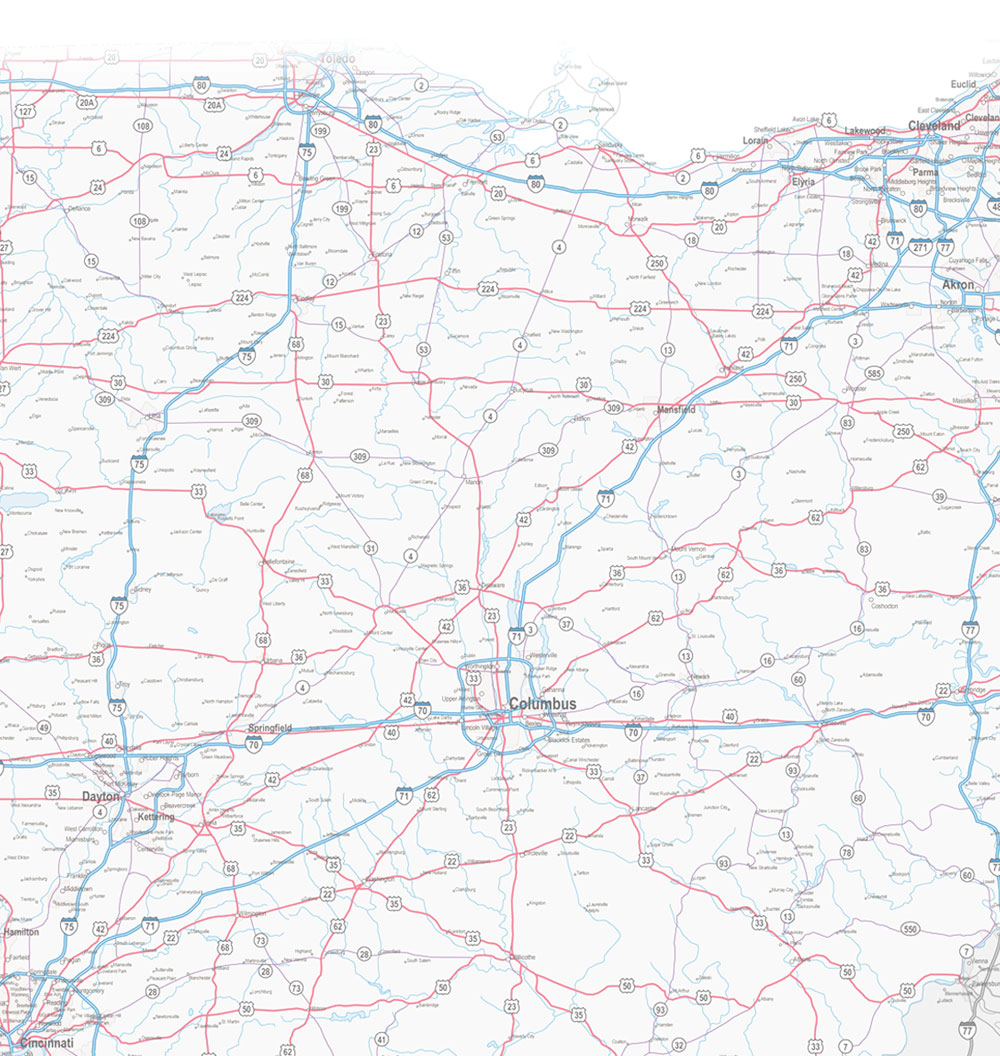
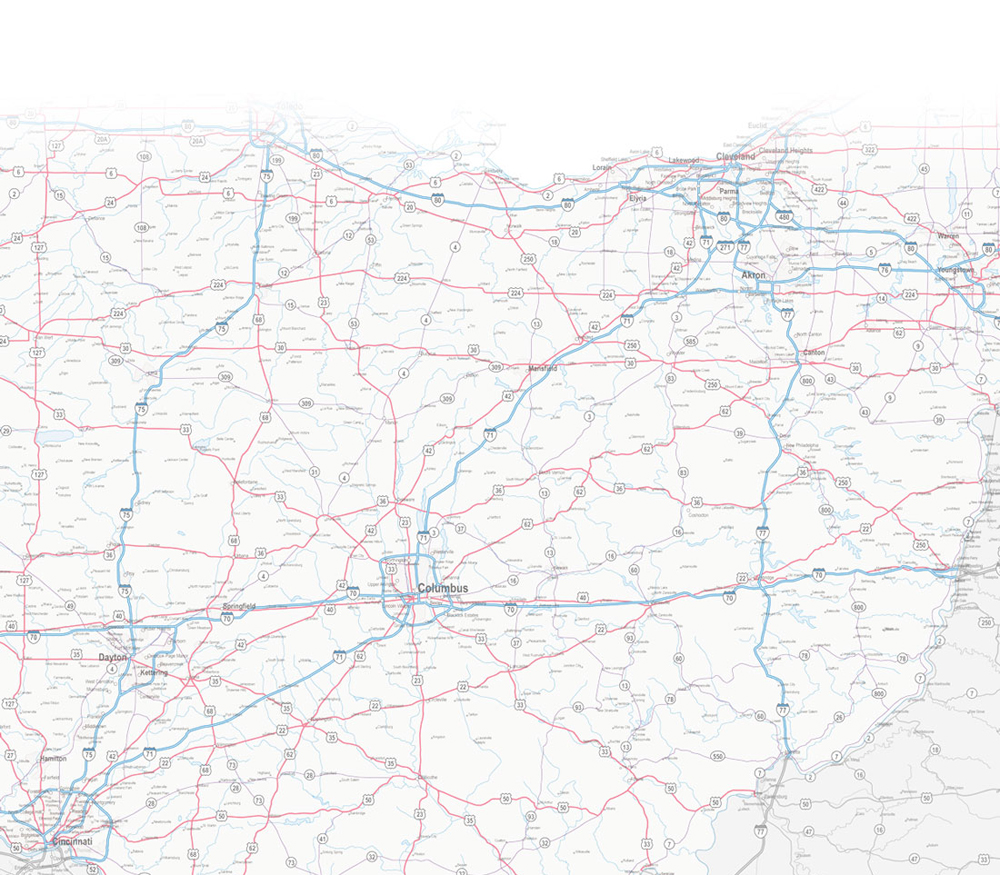
aug 8 edits

Changed region(s): [[0.0, 0.0309, 1.0, 1.0], [0.899, 0.4937, 0.93, 0.5246]]

diff --git a/css/global.css b/css/global.css
@@ -1,5 +1,6 @@
 /*** mobile first layout + global styles ***/
 
+
 /**************************************************
 *** text and body
 **************************************************/
@@ -10,7 +11,7 @@ body {
   font-size: 100%;
   line-height: 120%;
   letter-spacing: .07em;
-  background: #fff;
+  background: url(images/map-800.png) no-repeat center bottom fixed;
 }
 dl, hr, h1, h2, h3, h4, h5, h6, ol, ul, pre, table, address, fieldset {
   margin-bottom: 10px;
@@ -34,15 +35,16 @@ h2 {
   color: #666;  
 }
 h3 {
-  font-size: 160%;
+  font-size: 170%;
   margin-top: 30px;
 }
 h4 {
-  font-size: 120%;
-	margin-top: 5px;
+  font-size: 115%;
+	margin-top: 10px;
 	font-weight: 700;
 	margin-bottom: 5px;
-	color: #555;
+	color: #000;
+	text-transform: uppercase;
 }
 p {
   font-size: 100%;
@@ -265,14 +267,15 @@ input.form-submit:active {
 #########################################################*/
 #section-header {
 /* IE9 SVG, needs conditional override of 'filter' to 'none' */
[1 lines of base64/hex data omitted]
-background: -moz-linear-gradient(top,  rgba(160,214,239,1) 0%, rgba(125,185,232,0) 100%); /* FF3.6+ */
-background: -webkit-gradient(linear, left top, left bottom, color-stop(0%,rgba(160,214,239,1)), color-stop(100%,rgba(125,185,232,0))); /* Chrome,Safari4+ */
-background: -webkit-linear-gradient(top,  rgba(160,214,239,1) 0%,rgba(125,185,232,0) 100%); /* Chrome10+,Safari5.1+ */
-background: -o-linear-gradient(top,  rgba(160,214,239,1) 0%,rgba(125,185,232,0) 100%); /* Opera 11.10+ */
-background: -ms-linear-gradient(top,  rgba(160,214,239,1) 0%,rgba(125,185,232,0) 100%); /* IE10+ */
-background: linear-gradient(to bottom,  rgba(160,214,239,1) 0%,rgba(125,185,232,0) 100%); /* W3C */
-filter: progid:DXImageTransform.Microsoft.gradient( startColorstr='#a0d6ef', endColorstr='#007db9e8',GradientType=0 ); /* IE6-8 */
[1 lines of base64/hex data omitted]
+background: -moz-linear-gradient(top,  rgba(116,179,219,1) 0%, rgba(255,255,255,0) 100%); /* FF3.6+ */
+background: -webkit-gradient(linear, left top, left bottom, color-stop(0%,rgba(116,179,219,1)), color-stop(100%,rgba(255,255,255,0))); /* Chrome,Safari4+ */
+background: -webkit-linear-gradient(top,  rgba(116,179,219,1) 0%,rgba(255,255,255,0) 100%); /* Chrome10+,Safari5.1+ */
+background: -o-linear-gradient(top,  rgba(116,179,219,1) 0%,rgba(255,255,255,0) 100%); /* Opera 11.10+ */
+background: -ms-linear-gradient(top,  rgba(116,179,219,1) 0%,rgba(255,255,255,0) 100%); /* IE10+ */
+background: linear-gradient(to bottom,  rgba(116,179,219,1) 0%,rgba(255,255,255,0) 100%); /* W3C */
+filter: progid:DXImageTransform.Microsoft.gradient( startColorstr='#74b3db', endColorstr='#00ffffff',GradientType=0 ); /* IE6-8 */
+
 }
 
 /**************************************************
@@ -331,13 +334,6 @@ and (min-width : 321px) {
 /*#########################################################
 ### Content Section 
 #########################################################*/
-#section-content {background: #fefefe url(images/map-500.jpg) no-repeat center bottom;}
-
-@media only screen 
-and (min-width : 499px) {
-  #section-content {background: #fefefe url(images/map-800.jpg) no-repeat center bottom;}
-}
-
 /**************************************************
 *** Content Zone
 **************************************************/
@@ -363,7 +359,11 @@ and (min-width : 499px) {
 }
 
 #block-views-tweets-block {
+<<<<<<< HEAD
   background: #ccc;
+=======
+  background: #efefef;
+>>>>>>> aug 8 edits
   padding: 15px;
   border-radius: 8px;
   margin-bottom: 20px;
@@ -392,7 +392,11 @@ and (min-width : 499px) {
 .tweet-time {font-size: 83%; letter-spacing: .02em;}
 
 #block-views-commerce-cart-block-block-1 {
+<<<<<<< HEAD
   background: #ccc;
+=======
+  background: #efefef;
+>>>>>>> aug 8 edits
   font-size: 90%;
   padding: 15px;
   padding-bottom: 0;
@@ -449,38 +453,40 @@ and (min-width : 499px) {
   min-height: 300px;
 }
 
-
 /**************************************************
 *** Footer Zone
 **************************************************/
 #zone-footer-wrapper {
   background: #000; 
   color: #fff;
+  margin: 0;
 }
 #zone-footer {min-height: 40px;}
 #region-footer-first {padding: 10px 0;}
-
-
 
 /**************************************************
 *** Node Specific
 **************************************************/
 
 .node-promoted.node-not-sticky {
+<<<<<<< HEAD
 	background: #efefef;
+=======
+	background: #fcfcfc;
+>>>>>>> aug 8 edits
 	padding: 15px;
 	border-radius: 10px;
 	margin: 10px 0 30px 0;
+	border: 1px solid #e7e7e7;
 }
 
-/*
-.node-page.node-promoted {
-  border-bottom: none;
+.not-front .node-promoted.node-not-sticky {
+	background: none;
+	padding: 0;
+	border-radius: 0;
+	margin: 0;
+	border: none;
 }
-*/
-
-
-
 .node-sticky {
 	color: #fff;
 	background: #1aa75d;
@@ -506,25 +512,20 @@ and (min-width : 499px) {
 	color: #1aa75d;
   background: #eee;
 }
-
 .node-readmore {
   float: right;
 }
-
 .node-links {margin-top: 20px;}
 
 .node-links ul.inline li {
   padding: 0;
   margin: 0;
 }
-
+.node-news .submitted {margin: 20px 0 10px 0;}
 
 /**************************************************
 *** Shopping Cart Page
 **************************************************/
-
-
-
 
 .line-item-quantity {margin-left: 5px;}
 

diff --git a/css/dco-theme-12-alpha-default.css b/css/dco-theme-12-alpha-default.css
@@ -1,10 +1,6 @@
 /*** 720px layout + default for all but mobile layout ***/
 
-
-/**************************************************
-*** tables
-**************************************************/
-
+body {background: url(images/map-1000.jpg) no-repeat center bottom fixed;}
 
 
 /*#########################################################
@@ -62,8 +58,6 @@
 /*#########################################################
 ### Content Section 
 #########################################################*/
-#section-content {background: #fefefe url(images/map-1000.jpg) no-repeat center bottom;}
-
 /**************************************************
 *** Content Zone
 **************************************************/
@@ -75,6 +69,23 @@
 
 
 
+/*#########################################################
+### Content Section 
+#########################################################*/
 
+#section-content {
+
+/* IE9 SVG, needs conditional override of 'filter' to 'none' */
[1 lines of base64/hex data omitted]
+background: -moz-linear-gradient(top,  rgba(255,255,255,1) 0%, rgba(255,255,255,0.97) 3%, rgba(255,255,255,0) 100%); /* FF3.6+ */
+background: -webkit-gradient(linear, left top, left bottom, color-stop(0%,rgba(255,255,255,1)), color-stop(3%,rgba(255,255,255,0.97)), color-stop(100%,rgba(255,255,255,0))); /* Chrome,Safari4+ */
+background: -webkit-linear-gradient(top,  rgba(255,255,255,1) 0%,rgba(255,255,255,0.97) 3%,rgba(255,255,255,0) 100%); /* Chrome10+,Safari5.1+ */
+background: -o-linear-gradient(top,  rgba(255,255,255,1) 0%,rgba(255,255,255,0.97) 3%,rgba(255,255,255,0) 100%); /* Opera 11.10+ */
+background: -ms-linear-gradient(top,  rgba(255,255,255,1) 0%,rgba(255,255,255,0.97) 3%,rgba(255,255,255,0) 100%); /* IE10+ */
+background: linear-gradient(to bottom,  rgba(255,255,255,1) 0%,rgba(255,255,255,0.97) 3%,rgba(255,255,255,0) 100%); /* W3C */
+filter: progid:DXImageTransform.Microsoft.gradient( startColorstr='#ffffff', endColorstr='#00ffffff',GradientType=0 ); /* IE6-8 */
+background: fixed;
+
+}
 
 

diff --git a/css/dco-theme-12-alpha-default-normal.css b/css/dco-theme-12-alpha-default-normal.css
@@ -1,6 +1,27 @@
 /*** 960 layout, will override other two layouts ***/ 
 /* use individual media queries if a wider breakpoint is needed for any item */
 
+
+body {
+  -webkit-background-size: contain;
+  -moz-background-size: contain;
+  -o-background-size: contain;
+  background-size: contain;  
+}
+
+  body {background: url(images/map-1300.jpg) no-repeat center bottom fixed;}
+
+
+@media only screen 
+and (min-width: 1200px) {
+  body {background: url(images/map-1600.jpg) no-repeat center bottom fixed;}
+}
+
+@media only screen 
+and (min-width: 1620px) {
+  body {background: url(images/map-full.jpg) no-repeat center bottom fixed;}
+}
+
 /*#########################################################
 ### Header Section 
 #########################################################*/
@@ -46,12 +67,27 @@
 /*#########################################################
 ### Content Section 
 #########################################################*/
-#section-content {background: #fefefe url(images/map-1450.jpg) no-repeat center bottom;}
-
-@media only screen 
-and (min-width : 1449px) {
-  #section-content {background: #fefefe url(images/map-1700.jpg) repeat-x center bottom;}
+/*
+#section-content {
+  background: #fefefe url(images/map-2600.jpg) no-repeat center bottom fixed;
+  -webkit-background-size: cover;
+  -moz-background-size: cover;
+  -o-background-size: cover;
+  background-size: cover;  
 }
+*/
+
+
+/*
+
+
+*/
+
+
+
+
+
+
 
 /**************************************************
 *** Content Zone
